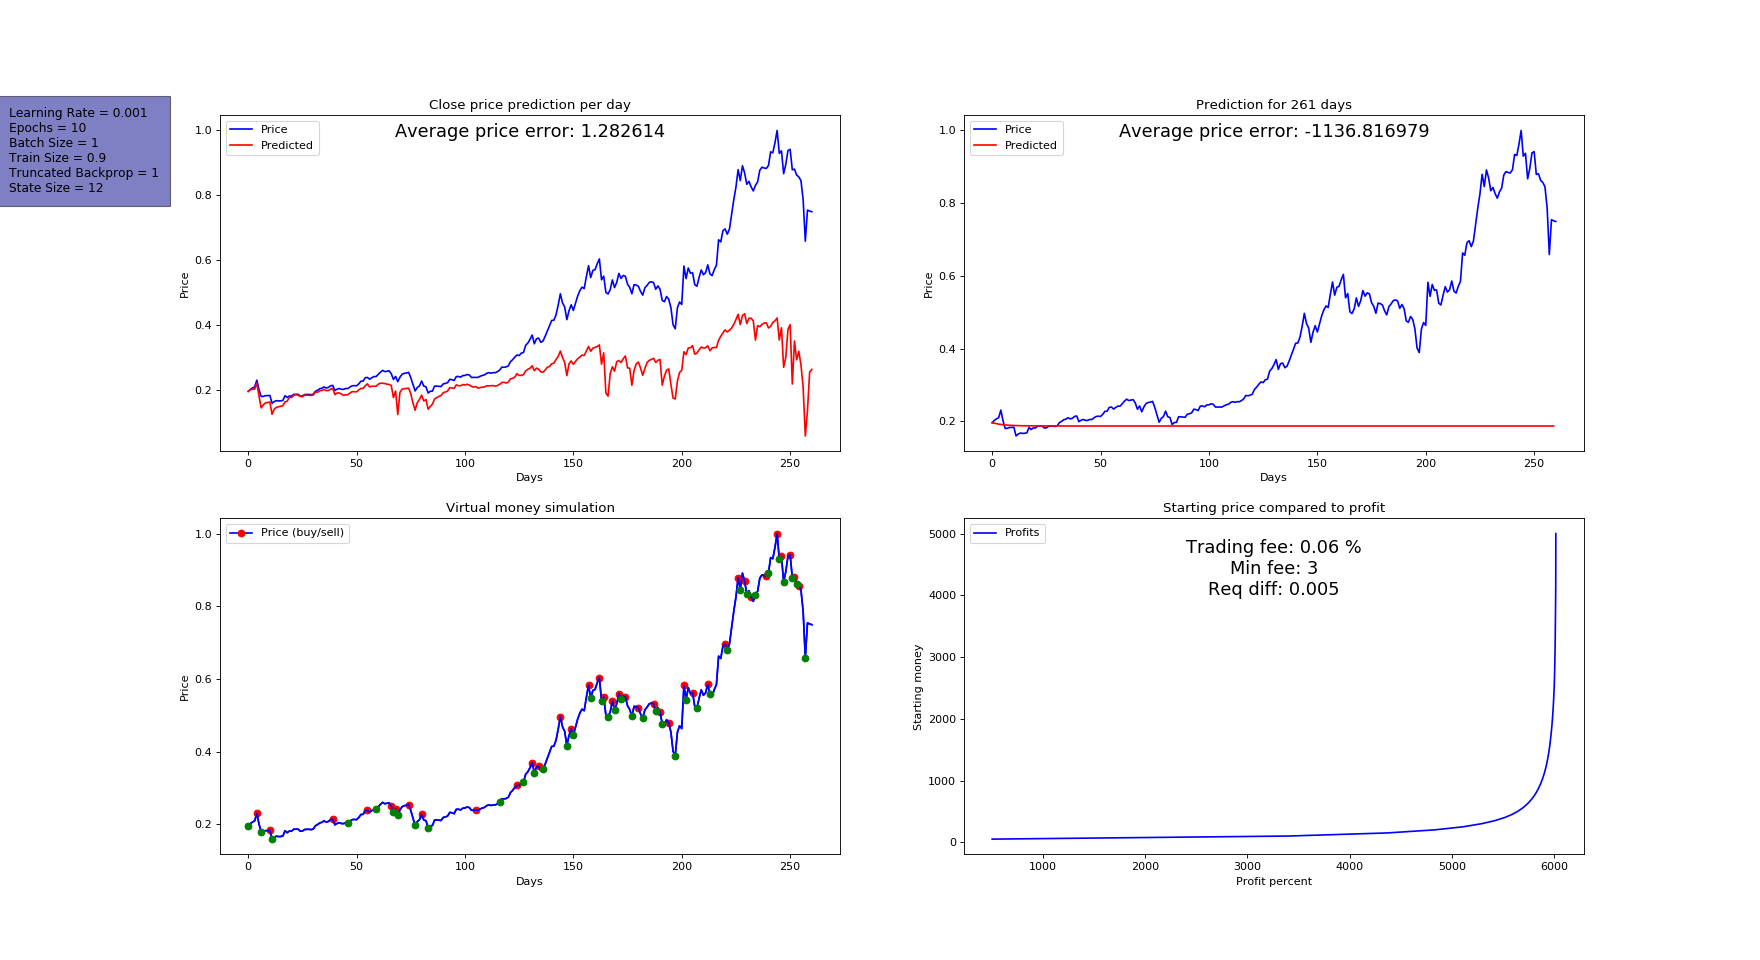
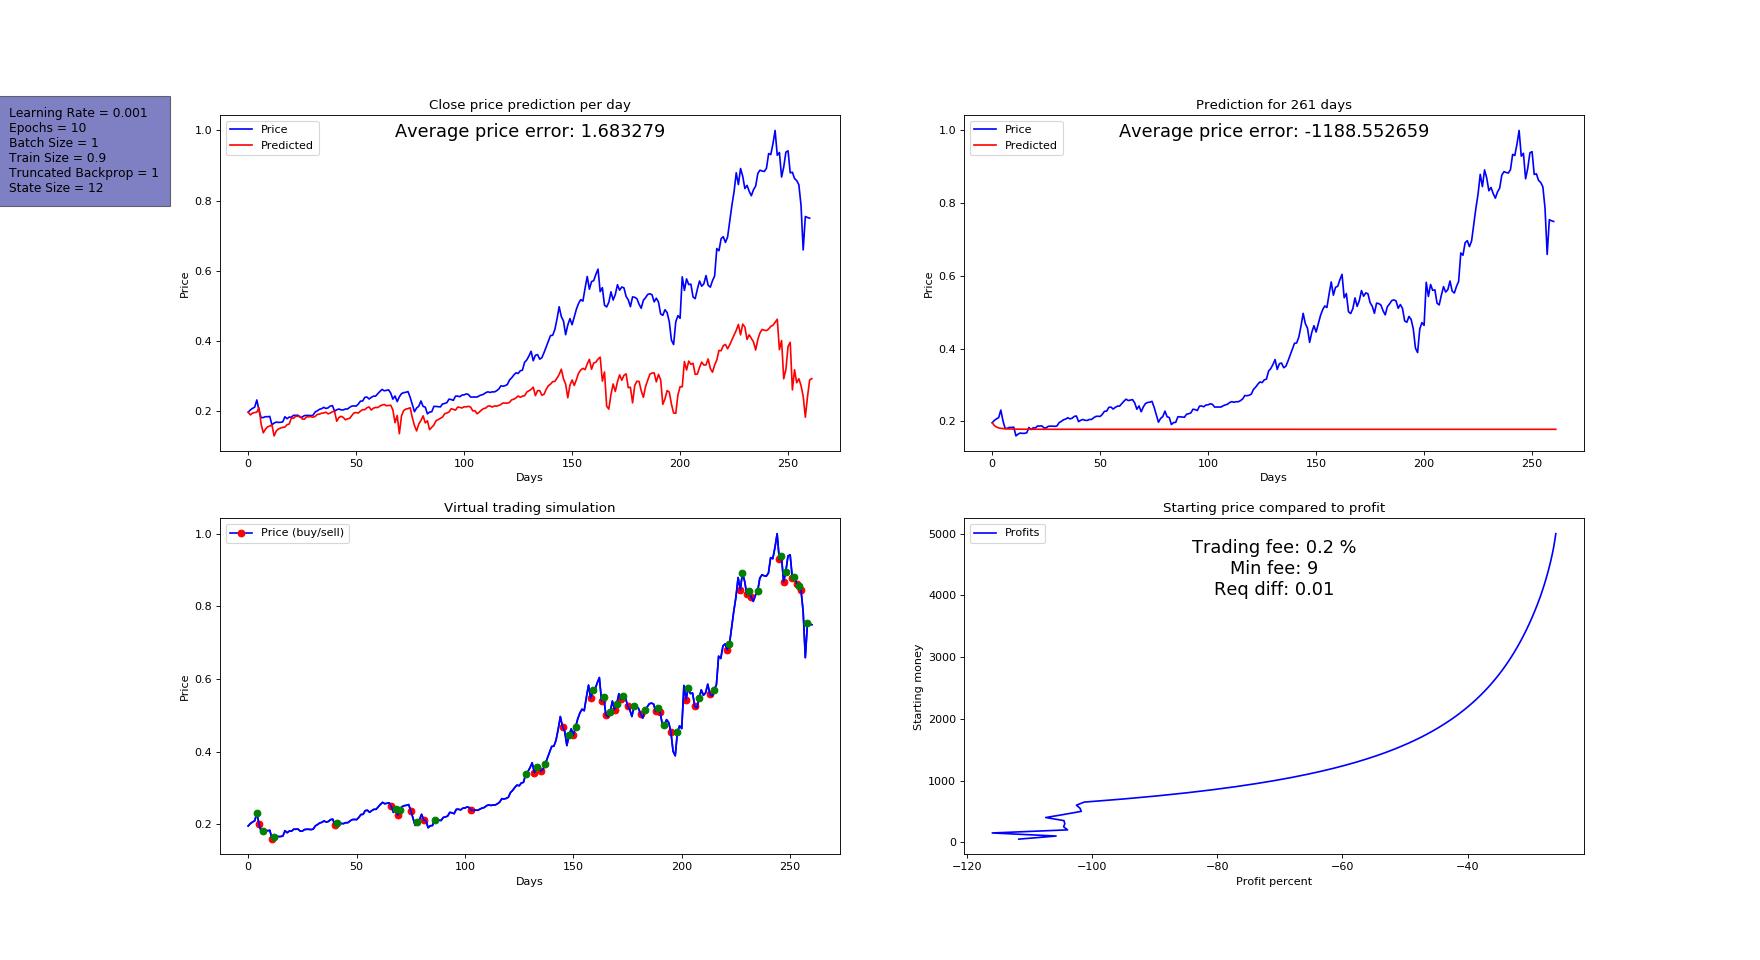
Update creditcard tflearn, try to fix simulation and stock prediction

diff --git a/models/creditcard_fraud/train.py b/models/creditcard_fraud/train.py
@@ -1,55 +1,29 @@
-import tensorflow as tf
+import tflearn
 import pandas as pd
 import numpy as np
-import time
+import seaborn as sns
+import matplotlib.pyplot as plt
 
 
-num_features = 30
-truncated_backprop_length = 1
-state_size = 75
-num_classes = 1
-batch_size = 10
 train_size = 0.9
-num_epochs = 100
+batch_size = 30
+state_size = 12
+num_features = 30
+dropout = 0.2
 learning_rate = 0.001
+epochs = 100
 
 csv_file_path = "data/creditcard_sampled.csv"
 
 dataset = pd.read_csv(csv_file_path)
 train_length = int(len(dataset.index) * train_size)
 test_length = int(len(dataset.index) * (1.0 - train_size))
-num_batches = train_length // batch_size // truncated_backprop_length
 
-features = ["Time",
-            "V1",
-            "V2",
-            "V3",
-            "V4",
-            "V5",
-            "V6",
-            "V7",
-            "V8",
-            "V9",
-            "V10",
-            "V11",
-            "V12",
-            "V13",
-            "V14",
-            "V15",
-            "V16",
-            "V17",
-            "V18",
-            "V19",
-            "V20",
-            "V21",
-            "V22",
-            "V23",
-            "V24",
-            "V25",
-            "V26",
-            "V27",
-            "V28",
-            "Amount",
+features = [
+            "Time","V1","V2","V3","V4","V5","V6","V7","V8","V9",
+            "V10","V11","V12","V13","V14","V15","V16","V17","V18",
+            "V19","V20","V21","V22","V23","V24","V25","V26","V27",
+            "V28","Amount",
             ]
 
 def prepare_data():
@@ -65,95 +39,35 @@ def prepare_data():
 
     return xTrain, yTrain, xTest, yTest
 
+def plot_data(x, y):
+    sns.set_style("darkgrid")
+    plt.plot(x, y)
+    plt.show()
 
-def model():
-    batchX_placeholder = tf.placeholder(dtype=tf.float32,
-                                        shape=[None, truncated_backprop_length, num_features],
-                                        name='data_ph')
-    batchY_placeholder = tf.placeholder(dtype=tf.float32,
-                                        shape=[None, truncated_backprop_length, num_classes],
-                                        name='target_ph')
-    W2 = tf.Variable(   initial_value=np.random.rand(state_size, num_classes),
-                        dtype=tf.float32)
-    b2 = tf.Variable(   initial_value=np.random.rand(1, num_classes),
-                        dtype=tf.float32)
-    labels_series = tf.unstack(batchY_placeholder, axis=1)
-    cell = tf.contrib.rnn.LSTMCell(num_units=state_size)
-    states_series, current_state = tf.nn.dynamic_rnn(   cell=cell,
-                                                        inputs=batchX_placeholder,
-                                                        dtype=tf.float32)
-    states_series = tf.transpose(states_series, [1,0,2])
-    last_state = tf.gather(params=states_series, indices=states_series.get_shape()[0]-1)
-    last_label = tf.gather(params=labels_series, indices=len(labels_series)-1)
-    weight = tf.Variable(tf.truncated_normal([state_size, num_classes]))
-    bias = tf.Variable(tf.constant(0.1, shape=[num_classes]))
-    prediction = tf.matmul(last_state, weight) + bias
-    loss = tf.reduce_mean(tf.squared_difference(last_label, prediction))
-    train_step = tf.train.AdamOptimizer(learning_rate=learning_rate).minimize(loss)
-    return (loss, train_step, prediction, last_label,
-            last_state, batchX_placeholder, batchY_placeholder)
+def train(trainX, trainY, testX, testY):
+    # Reshape data
+    """
+    trainX = trainX.reshape([len(trainX), num_features])
+    testX = testX.reshape([len(testX), num_features])
+    trainY = trainY.reshape([len(trainY), 1])
+    testY = testY.reshape([len(testY), 1])
+    """
 
+    print(trainX.shape)
+    print(trainY.shape)
+    # Network building
+    input_ = tflearn.input_data([None, num_features])
+    print(input_)
+    linear = tflearn.single_unit(input_)
+    regression = tflearn.regression(linear, optimizer='sgd', loss='mean_square',
+    metric='R2', learning_rate=learning_rate)
 
-def train(  loss, train_step, prediction, last_label, last_state,
-            batchX_placeholder, batchY_placeholder, xTrain, yTrain,
-            xTest, yTest):
-    loss_list = []
-
-    with tf.Session() as sess:
-        tf.global_variables_initializer().run()
-        print('Train data length: %d' % train_length)
-        print('Test data length: %d' % (test_length+1))
-
-        # Train
-        for epoch_idx in range(num_epochs):
-            begin_time = time.time()
-            for batch_idx in range(num_batches):
-                start_idx = batch_idx * truncated_backprop_length
-                end_idx = start_idx + truncated_backprop_length * batch_size
-
-                batchX = xTrain[start_idx:end_idx,:].reshape(batch_size,truncated_backprop_length,num_features)
-                batchY = yTrain[start_idx:end_idx].reshape(batch_size,truncated_backprop_length,num_classes)
-
-                _loss, _train_step, _pred, _last_label, _prediction = sess.run(
-                    fetches = [loss, train_step, prediction, last_label, prediction],
-                    feed_dict = {   batchX_placeholder : batchX,
-                                    batchY_placeholder : batchY}
-                )
-
-                loss_list.append(_loss)
-
-            end_time = time.time() - begin_time
-            print('Epoch: %d, loss: %.6f, time: %.2fs' % (epoch_idx + 1, _loss, end_time))
-
-
-        pred_list = []
-        for test_idx in range(len(xTest) - truncated_backprop_length + 1):
-            testBatchX = xTest[test_idx:test_idx+truncated_backprop_length,:].reshape((1, truncated_backprop_length, num_features))
-            testBatchY = yTest[test_idx:test_idx+truncated_backprop_length].reshape((1, truncated_backprop_length, num_classes))
-
-            feed = {batchX_placeholder : testBatchX,
-                    batchY_placeholder : testBatchY}
-
-            _last_state, _last_label, test_pred = sess.run([last_state, last_label, prediction], feed_dict=feed)
-            pred_list.append(test_pred[-1][0])
-
-
-        pred_list = list(map(lambda x: int(round(x)), pred_list))
-        correct_preds = 0
-
-        for i in range(len(yTest)):
-            if yTest[i][0] == pred_list[i]:
-                correct_preds += 1
-
-
-        accuracy = correct_preds / len(yTest) * 100
-        print("Accuracy: {}%".format(accuracy))
-        return pred_list
+    # Training
+    model = tflearn.DNN(regression, tensorboard_verbose=3)
+    model.fit(trainX, trainY, validation_set=(testX, testY), show_metric=True,
+              batch_size=batch_size, n_epoch=epochs)
 
 
 if __name__ == "__main__":
-    loss, train_step, prediction, last_label, last_state, batchX_placeholder, batchY_placeholder = model()
     xTrain, yTrain, xTest, yTest = prepare_data()
-    pred_list = train(  loss, train_step, prediction, last_label,
-                        last_state, batchX_placeholder, batchY_placeholder,
-                        xTrain, yTrain, xTest, yTest)
+    train(xTrain, yTrain, xTest, yTest)

diff --git a/models/stock_market_prediction/simulation.py b/models/stock_market_prediction/simulation.py
@@ -5,7 +5,7 @@ class StockTradingSimulation:
                     trading_fee=0.2, min_fee=9, req_diff=0.01, bad_luck=0.05):
 
         self.diff = diff
-        self.ohlc = ohlc[-(len(self.diff)+1):]
+        self.ohlc = ohlc[-len(self.diff):]
         self.starting_capital = starting_capital
         self.trading_fee = trading_fee / 100
         self.min_fee = min_fee
@@ -23,14 +23,15 @@ class StockTradingSimulation:
         self.trading_fee_ratio = 1 - self.trading_fee
         self.current_money = self.starting_capital
 
+
     def run(self):
         sell_list = []
         buy_list = []
 
         for i in range(len(self.diff)):
-            self.current_high_price = self.ohlc[i + 1][1]
-            self.current_low_price = self.ohlc[i + 1][2]
-            self.current_open_price = self.ohlc[i + 1][0]
+            self.current_high_price = self.ohlc[i][1]
+            self.current_low_price = self.ohlc[i][2]
+            self.current_open_price = self.ohlc[i][0]
             self.current_low_avg_price = self.current_low_price + (self.current_high_price - self.current_low_price) * (0.50 - self.bad_luck)
             self.current_high_avg_price = self.current_low_price + (self.current_high_price - self.current_low_price) * (0.50 + self.bad_luck)
             self.fee_amount = 0
@@ -39,7 +40,7 @@ class StockTradingSimulation:
             if self.diff[i] < -self.req_diff and self.num_shares > 0:
                 self.state = "Sell"
                 sell_list.append(i)
-                self.current_price = self.current_low_avg_price
+                self.current_price = self.current_open_price
                 self.fee_amount = self.num_shares * self.current_price * self.trading_fee
 
                 if self.fee_amount < self.min_fee:
@@ -52,7 +53,7 @@ class StockTradingSimulation:
             elif self.diff[i] > self.req_diff and self.num_shares == 0:
                 self.state = "Buy"
                 buy_list.append(i)
-                self.current_price = self.current_high_avg_price
+                self.current_price = self.current_open_price
                 self.fee_amount = self.current_money * self.trading_fee
 
                 if self.fee_amount < self.min_fee:
@@ -82,11 +83,15 @@ class StockTradingSimulation:
             print("Current price: {}".format(round(self.current_price)))
             print("Current money: {}".format(round(self.current_money)))
             print("Current shares: {}".format(round(self.num_shares)))
-            print("Trading fee: {}".format(round(self.fee_amount)))
+            print("Total paid fee: {}".format(round(self.total_paid_fee)))
             print("Total worth: {}".format(round(self.total_worth)))
             print("Total profit: {} %".format(round(self.total_profit)))
             print("")
             print("")
+
+        total_worth_wo = (self.starting_capital / self.ohlc[0][0]) * self.ohlc[-1][0]
+        total_profit_wo = total_worth_wo / self.starting_capital * 100 - 100
+        print("Total profit without trading: {}%".format(round(total_profit_wo)))
 
         return sell_list, buy_list, self.total_profit
 

diff --git a/models/stock_market_prediction/stock_predictor.py b/models/stock_market_prediction/stock_predictor.py
@@ -10,7 +10,7 @@ from simulation import StockTradingSimulation
 
 outfile = "prediction.png"
 outfolder = "output"
-stock = "TSLA"
+stock = "OUT1V.HE"
 infile = "{}_alltargets.csv".format(stock)
 infolder = "stock" # ("stock" / "currency")
 
@@ -139,7 +139,9 @@ def train_and_test( loss, train_step, prediction, last_label, last_state,
             _last_state, _last_label, test_pred = sess.run([last_state, last_label, prediction], feed_dict=feed)
             test_day_pred_list.append(test_pred[-1][0])
 
-            if test_idx > 0:
+            if test_idx == 0:
+                test_day_differences.append(test_day_pred_list[-1] - yTest[0][0])
+            elif test_idx > 0:
                 test_day_differences.append(test_day_pred_list[-1] - test_day_pred_list[-2])
 
     return test_day_pred_list, test_days_pred_list, test_day_differences, test_days_differences
@@ -159,6 +161,8 @@ def plot_prediction(day, days, test_prices, day_differences, days_differences,
     day_price_error = sum(day_differences) / len(day_differences) * (dataset["Close"].max() - dataset["Close"].min())
     days_price_error = sum(days_differences) / len(days_differences) * (dataset["Close"].max() - dataset["Close"].min())
 
+
+    day.insert(0, test_prices[0])
     ax1.set_xlabel("Days")
     ax1.set_ylabel("Price")
     ax1.set_title("Close price prediction per day")
@@ -171,6 +175,7 @@ def plot_prediction(day, days, test_prices, day_differences, days_differences,
     ax1.plot(day, label='Predicted', color='red')
     ax1.legend(loc='upper left')
 
+    days.insert(0, test_prices[0])
     ax2.set_xlabel("Days")
     ax2.set_ylabel("Price")
     ax2.set_title("Prediction for {} days".format(len(test_prices)))
@@ -228,7 +233,7 @@ if __name__ == "__main__":
     trading_fee = 0.2
     min_fee = 9
     req_diff = 0.01
-    bad_luck = 0.05
+    bad_luck = 0.02
     profits = []
     for starting_capital in starting_funds:
         sell_list, buy_list, total_profit = StockTradingSimulation(diff=test_day_differences,
